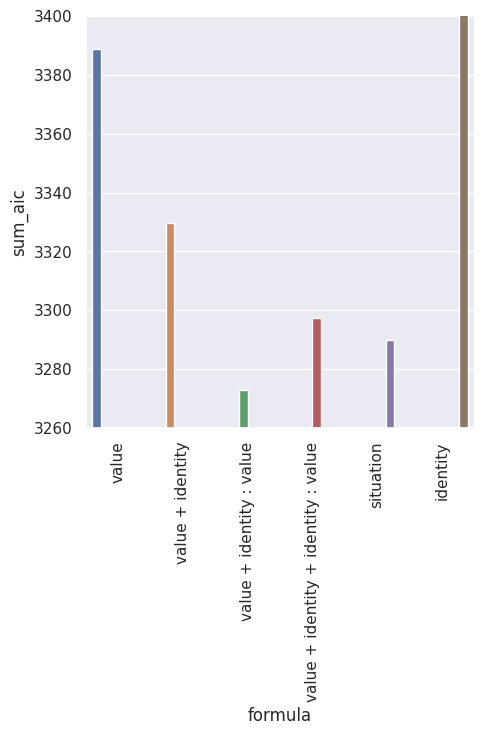
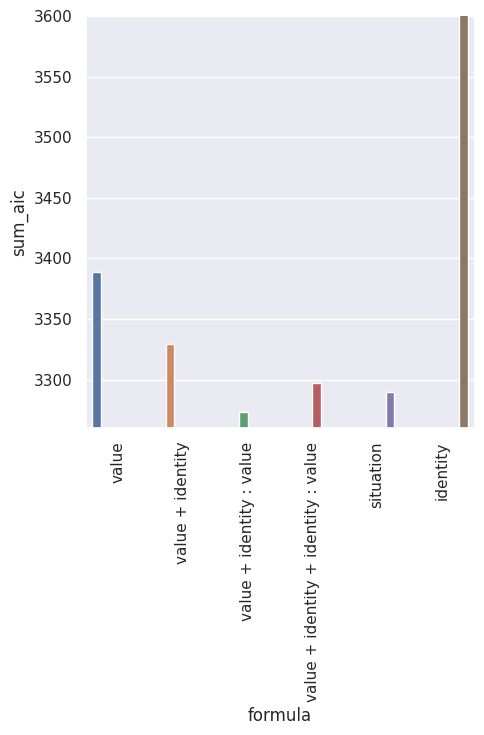
update Simulations/neurons_analysis/README.md, base-aic-all_neuron-.pdf and base-aic-all_neuron-.png

diff --git a/Simulations/neurons_analysis/README.md b/Simulations/neurons_analysis/README.md
@@ -33,6 +33,7 @@ python analysis_v1.py \
 -l $RESULTS_DIR/neurons_analysis/ \
 -m "df['aic'].iloc[-1]" \
 -f "./Simulations/neurons_analysis/base.yaml" \
+-d \
 -v \
 "import Simulations.neurons_analysis.utils as eu" \
 "df=eu.proc_df(df, 'aic')" \
@@ -40,7 +41,7 @@ python analysis_v1.py \
 "print(df[['formula','sum_aic']])" \
 "df=df.sort_values(by='formula', key=lambda x: x.map({v: i for i, v in enumerate(['value', 'value + identity', 'value + identity : value', 'value + identity + identity : value', 'situation', 'identity'])}))" \
 "g=sns.catplot(data=df, kind='bar', y='sum_aic', x='formula', hue='formula')" \
-"g.set(ylim=(3260, 3400))" \
+"g.set(ylim=(3260, 3600))" \
 "g.set_xticklabels(rotation=90)"
 ```
 
